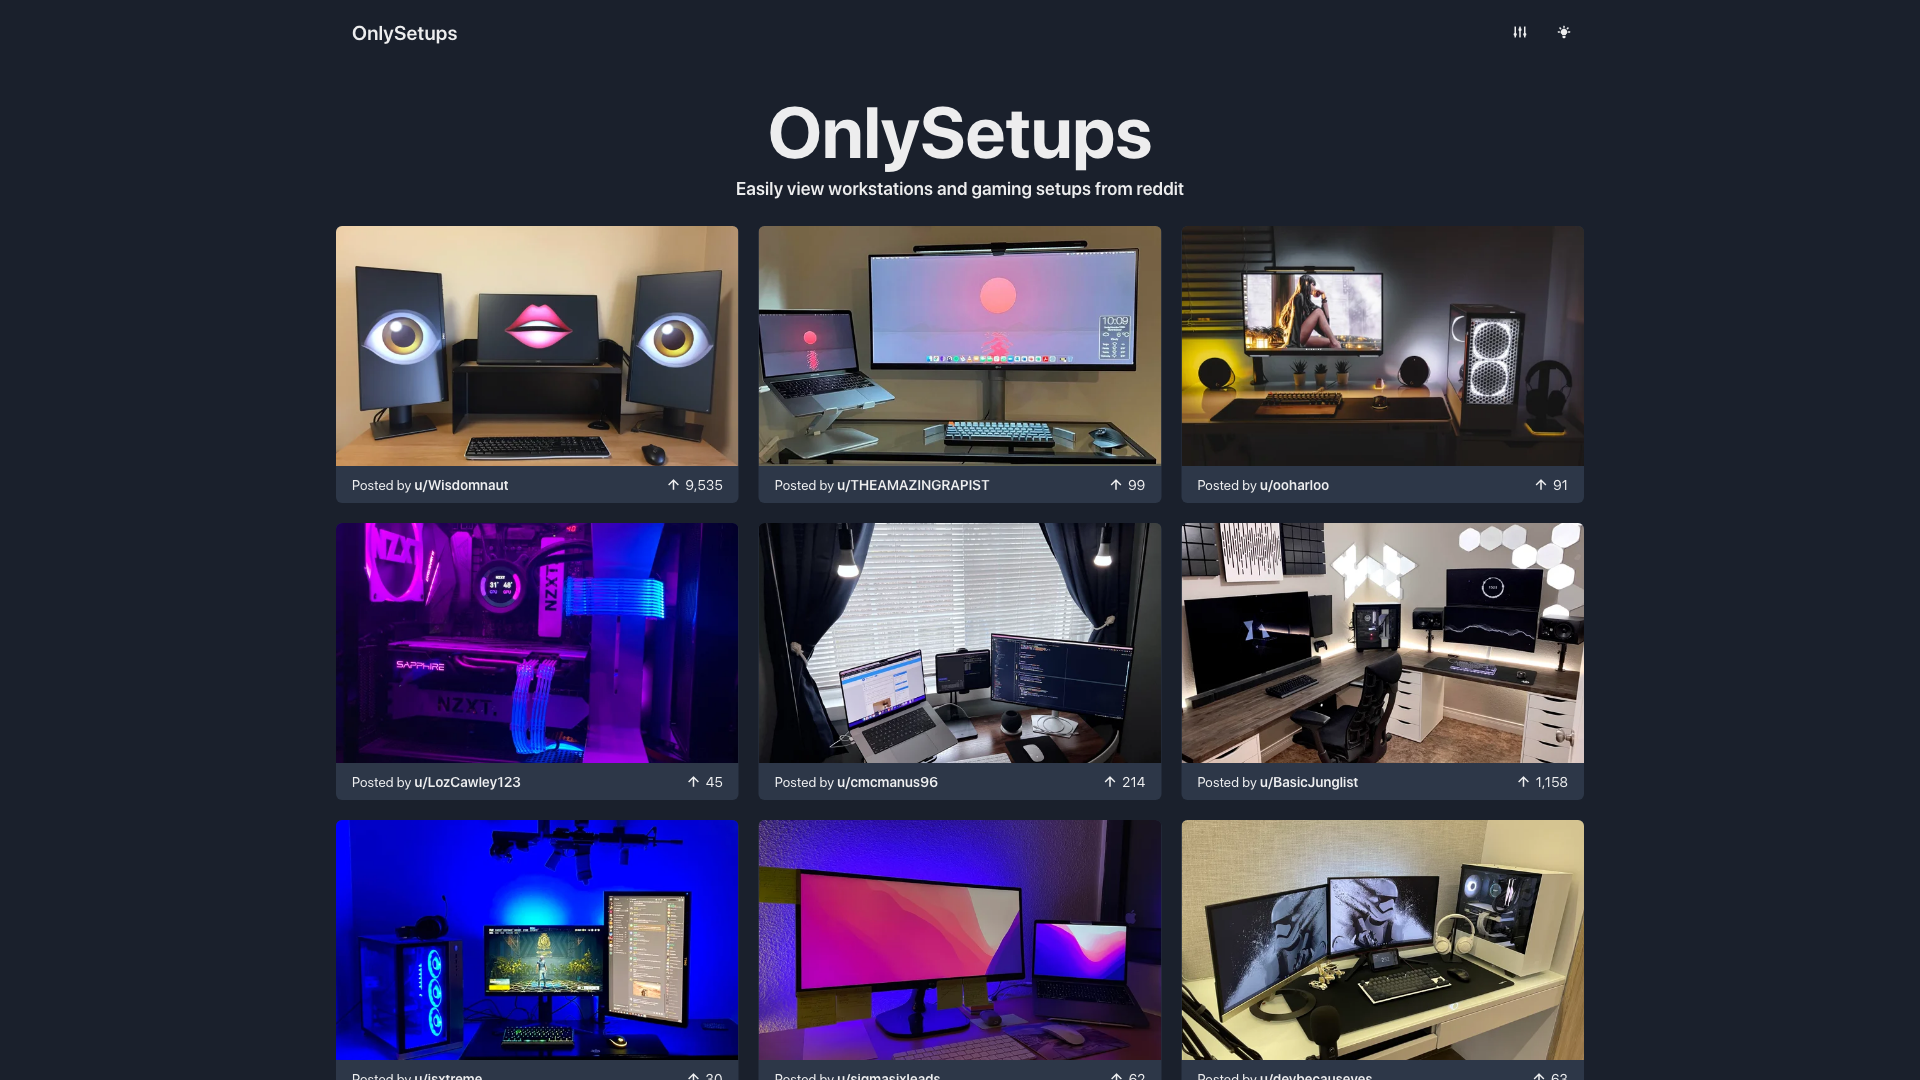
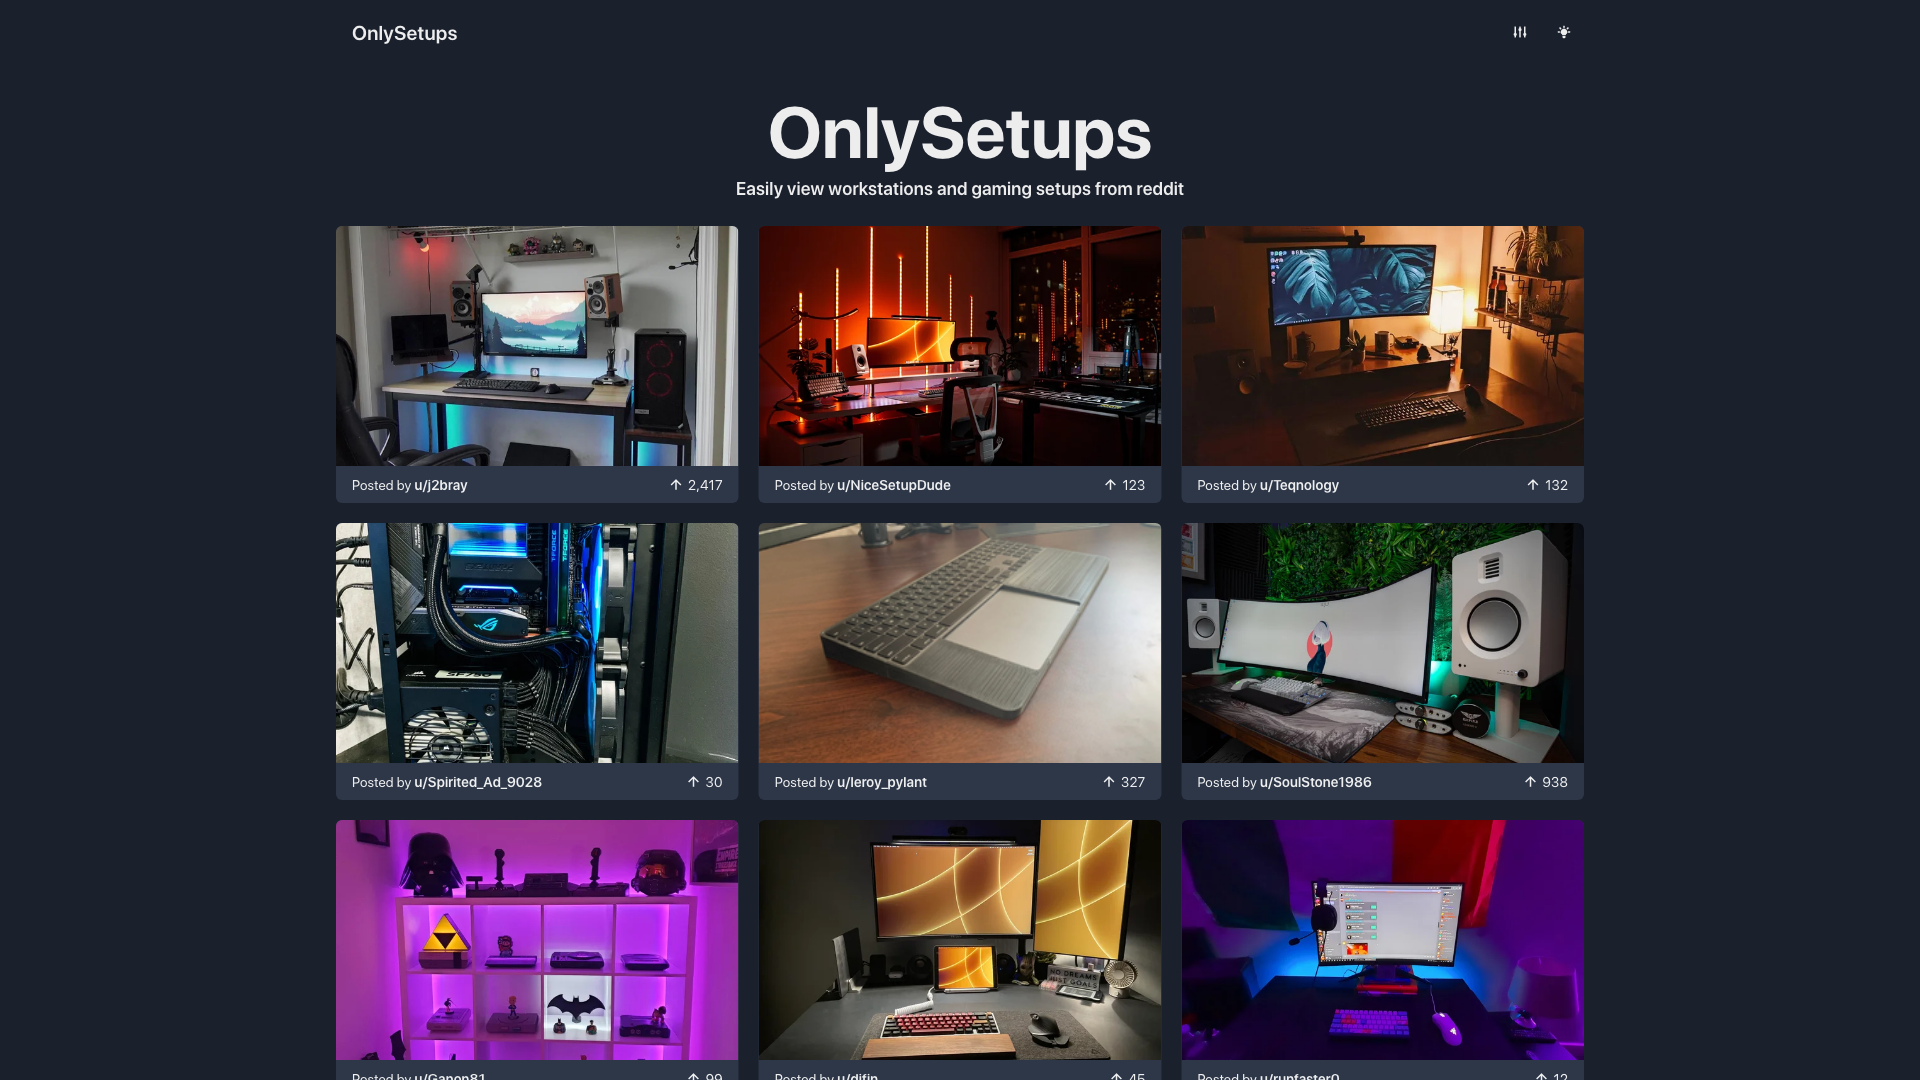
Implement function for writing image path into config file and renew images

diff --git a/scripts/showcase-preview-images.ts b/scripts/showcase-preview-images.ts
@@ -1,35 +1,75 @@
 import puppeteer from 'puppeteer'
 import path from 'path'
 import fs from 'fs'
+import _ from 'lodash'
 import showcaseData from '../configs/showcase.json'
 
+type ShowcaseItem = {
+  name: string
+  description: string | null
+  url: string | null
+  type: string
+  github: string | null
+  image: string | null
+}
+
+type ShowCaseType = Record<string, ShowcaseItem[]>
+
+const DIR_FOR_STORING_PREVIEW_IMAGE = 'showcases'
+
 async function generatePreviewImage() {
+  // Open the browser with width 1920 and height 1080
   const browser = await puppeteer.launch({
     defaultViewport: {
       width: 1920,
       height: 1080,
     },
   })
+  // Create a new page
   const page = await browser.newPage()
-  const keys = Object.keys(showcaseData)
+  // Clone the whole object
+  const newData: ShowCaseType = _.cloneDeep(showcaseData)
+  // Get all categories
+  const keys = Object.keys(newData)
 
   for (let key of keys) {
-    const dir = path.join(__dirname, '..', 'public', 'showcases', key)
-    if (!fs.existsSync(dir)) {
-      fs.mkdirSync(dir)
+    const localDirToPreviewImageDir = path.join(
+      process.cwd(),
+      'public',
+      DIR_FOR_STORING_PREVIEW_IMAGE,
+      key,
+    )
+    // If there is no directory, create a new one
+    if (!fs.existsSync(localDirToPreviewImageDir)) {
+      fs.mkdirSync(localDirToPreviewImageDir)
     }
-    const target = showcaseData[key]
+    // Look into a specific category
+    const target = newData[key]
 
     for (let i = 0; i < target.length; i++) {
       const { url, name } = target[i]
+      // If there is no url in the item, jump to the next item
       if (!url) continue
+      // Go to the url and wait for completing loading
       await page.goto(url, { waitUntil: 'networkidle2' })
-      const imagePath = path.join(dir, `${name.split(' ').join('-')}.png`)
+
+      // Get a image file name
+      const fileName = `${name.split(' ').join('-')}.png`
+      // Get an appropriate image path
+      const imagePath = path.join(localDirToPreviewImageDir, fileName)
+      // Add image path into showcase object
+      target[i].image = path.join(DIR_FOR_STORING_PREVIEW_IMAGE, key, fileName)
+      // Take a screenshot of the page
       await page.screenshot({ path: imagePath })
     }
   }
-
+  // Renew the whole showcase data
+  writeImagePathIntoConfigFile(newData)
   await browser.close()
+}
+
+function writeImagePathIntoConfigFile(result: ShowCaseType) {
+  fs.writeFileSync('./configs/showcase.json', JSON.stringify(result, null, 2))
 }
 
 try {
